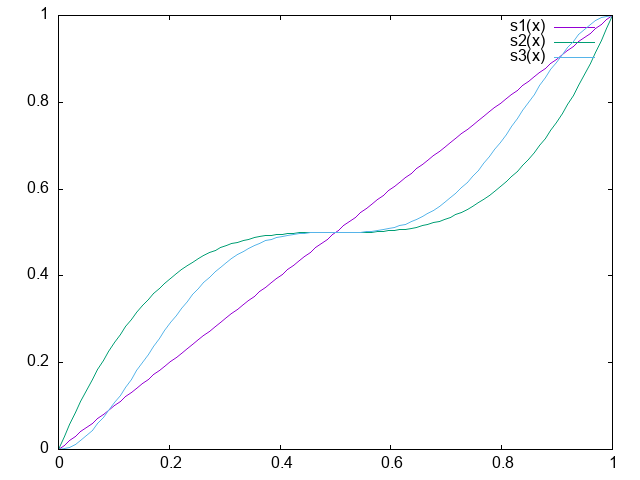
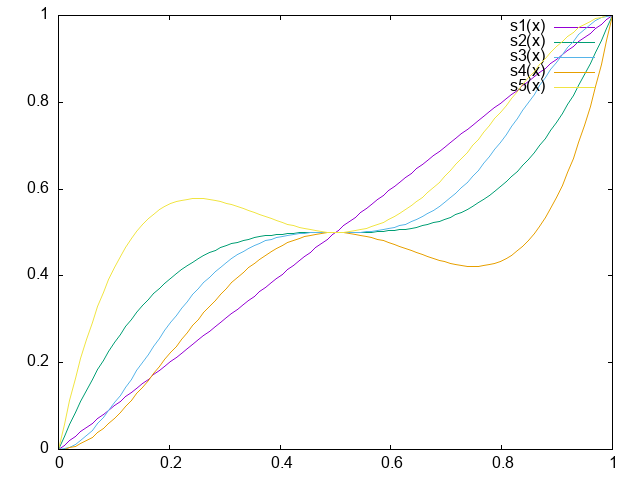
Add two more schlenker functions
We need something with some half powers or something to
eliminate the spurious minima.

diff --git a/src/noft/issues/lowdin_shull.md b/src/noft/issues/lowdin_shull.md
@@ -87,6 +87,59 @@ Solving this gives
 The resulting function is referred to as $s3$ and is
 $s3(x) = 15 x^2 - 50 x^3 + 60 x^4 - 24 x^5$
 
+## $s4$: $s2$ but also fixing low occupation
+
+The first experiments suggest that the high occupation numbers
+are fine as they are. That leaves the possibility that something
+might be gained from the low occupation numbers. So we take the
+conditions from $s3$ but drop one, getting:
+- [1] $s(0) = 0$
+- [2] $s(1) = 1$
+- [3] $s(\textonehalf) = \textonehalf$
+- [4] $s'(x)|_{x=0} = 0$
+- [5] $s'(x)|_{x=\textonehalf} = 0$
+
+suppose
+- $s(x) = a x^2 + b x^3 + c x^4$ this satisfies [1] and [4]
+- [2] is satisfied if $a+b+c=1$
+- [3] requires that $\textonequarter a + \mbox{1/8} b + \mbox{1/16} c = \textonehalf $
+- [5] requires $a + \textthreequarters b + \textonehalf c = 0$
+
+Solving this gives:
+- $a = +9$
+- $b = -20$
+- $c = +12$
+
+The resulting function is referred as $s4$ and is given by
+$s4(x) = 9 x^2 - 20 x^3 + 12 x^4$
+
+## $s5$: $s2$ but also fixing high occupation
+
+To complete the set of schlenker functions we add the one
+that addresses the high occupation numbers. So we take the
+conditions from $s3$ but drop one, getting:
+- [1] $s(0) = 0$
+- [2] $s(1) = 1$
+- [3] $s(\textonehalf) = \textonehalf$
+- [4] $s'(x)|_{x=\textonehalf} = 0$
+- [5] $s'(x)|_{x=1} = 0$
+
+suppose
+- $s(x) = a x + b x^2 + c x^3 + d x^4$ this satisfies [1] and [4]
+- [2] is satisfied if $a+b+c+d=1$
+- [3] requires that $\textonehalf a + \textonequarter b + \mbox{1/8} c + \mbox{1/16} d = \textonehalf $
+- [4] requires that $a + b + \textthreequarters c + \textonehalf d = 0$
+- [5] requires $a + 2 b + 3 c + 4 d = 0$
+
+Solving this gives:
+- $a = +6$
+- $b = -21$
+- $c = +28$
+- $d = -12$
+
+The resulting function is referred as $s5$ and is given by
+$s5(x) = 6 x - 21 x^2 + 28 x^3 - 12 x^4$
+
 ## Visualising schlenker functions
 
 Above we listed and developed in total 3 schlenker functions,
